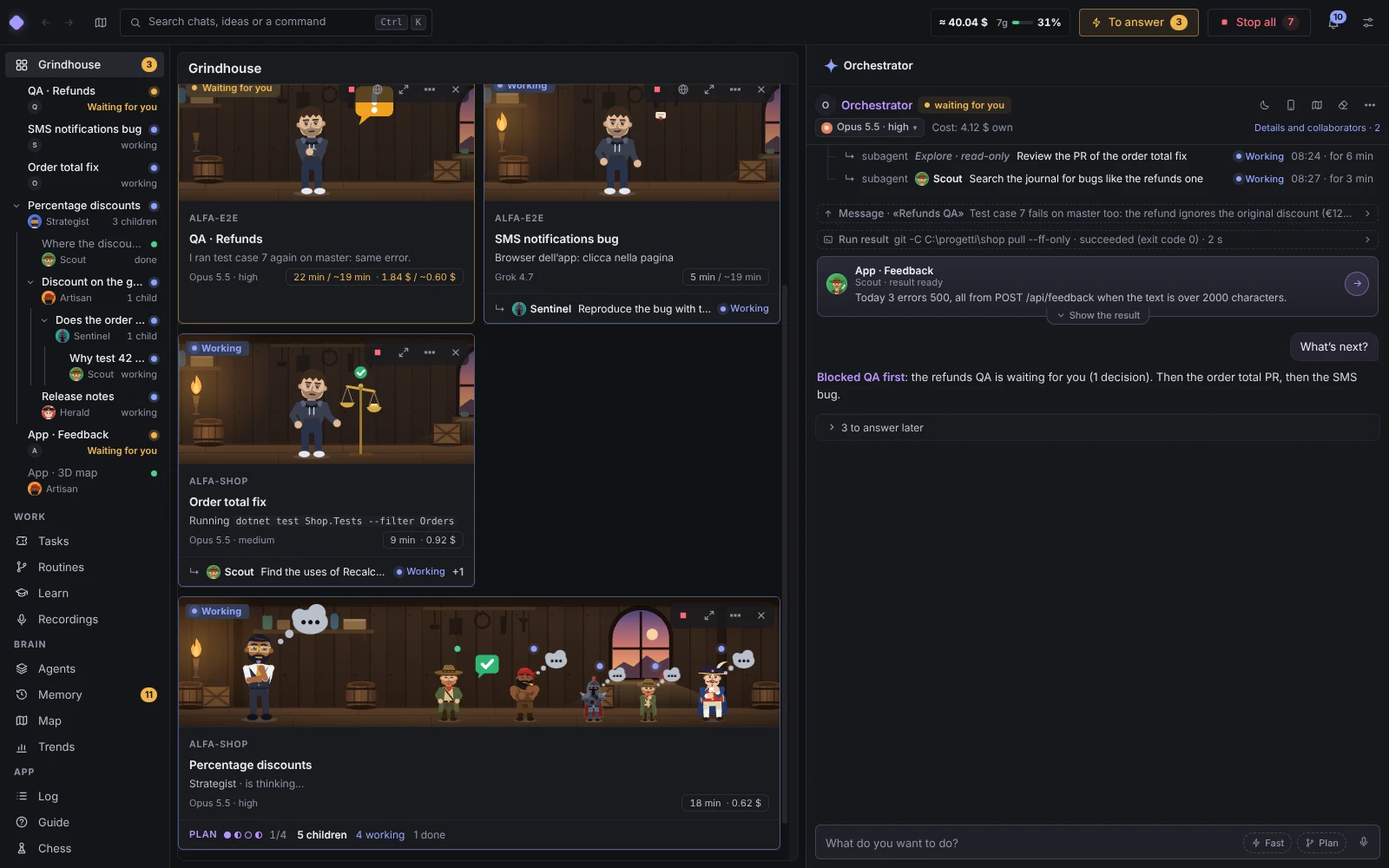
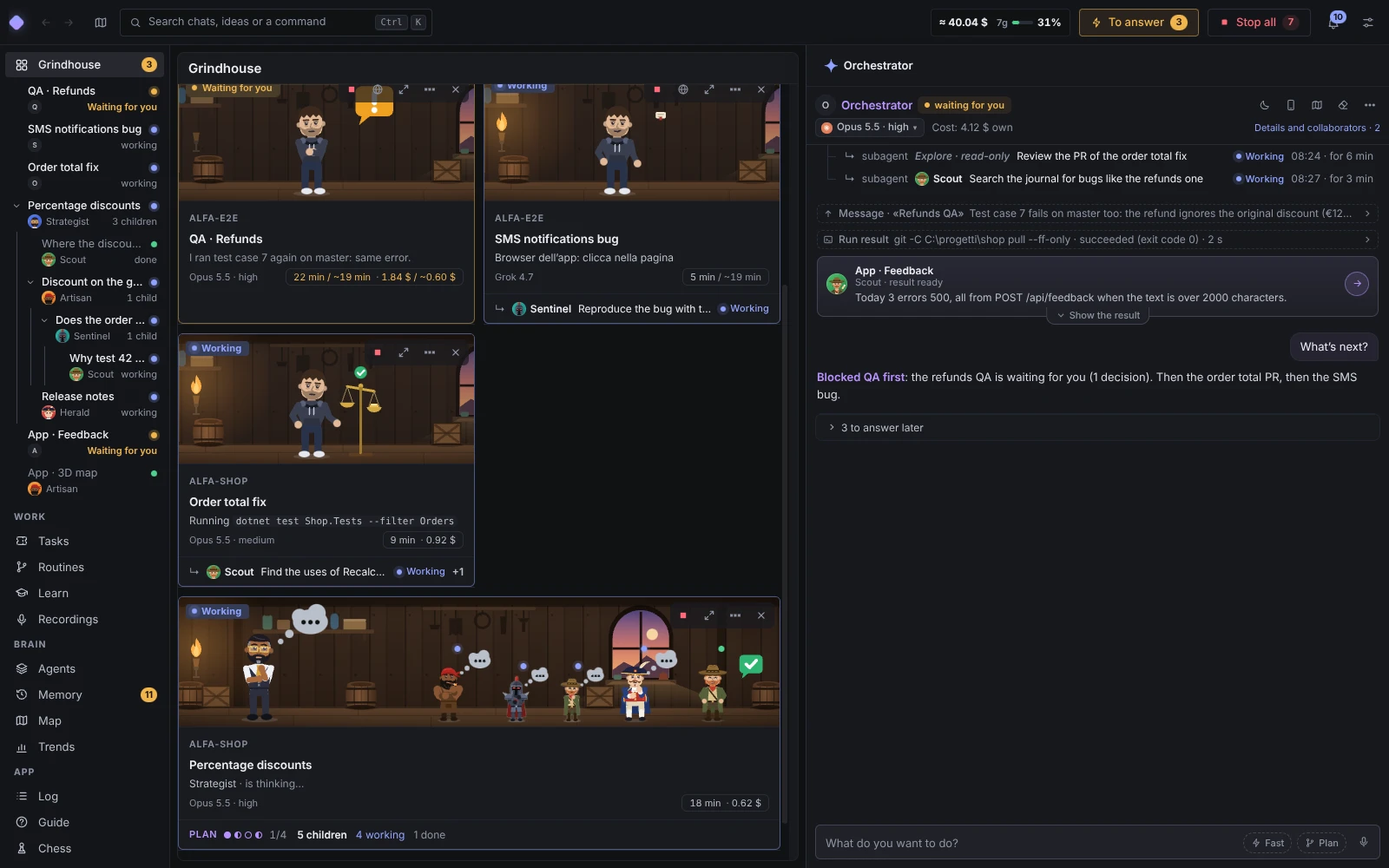
feat(grindhouse): every helper at the bench, the ones at work first
- the helpers' row holds the whole team and scrolls sideways (wheel,
  trackpad, a thin bar under the pointer); the +N button is gone
- at work or waiting first, then stuck, then the rest
- one floating name tag kept inside the row; helpers take focus, Enter opens
- the limit chip reads «Max 5 insieme» while something works and explains
  itself under the pointer

ADR 0314.

shots: unchanged-visually agents agent-levels

Changed region(s): [[0.3125, 0.744, 0.5625, 0.837]]

diff --git a/src/renderer/components/BenchKids.tsx b/src/renderer/components/BenchKids.tsx
@@ -1,11 +1,13 @@
 // The sub-agents of a bench in the Grindhouse workshop (ADR 0311; the owner picked «aiutanti allo stesso banco»,
 // 2026-11-14; ADR 0312): every chat a chat delegated, and the ones those delegated in turn, stands at its bench as a
-// smaller person doing what it does (StripFace.tsx), a grandchild smaller still, up to SHOWN and «+N». Under the pointer
+// smaller person doing what it does (StripFace.tsx), a grandchild smaller still, all of them, the ones at work first, in a row that scrolls sideways (the owner,
+// 2026-11-15, ADR 0314). Under the pointer
 // or the keyboard a helper shows its name tag over its head: who, and its state in words; a click on the tag (or around
 // the person) opens that chat in the Grindhouse with the whole team as tabs (AgentStrips.tsx TeamTabs), as a click in
 // the sidebar does; a click on the person itself stays a pat or a whack (ADR 0297). The bench's foot counts them
 // (running, waiting, stuck, done) with the limit the bench hit, when it did (BenchKidsSum). Used by ChatTile.tsx on a
 // closed bench.
+import { useCallback, useEffect, useLayoutEffect, useMemo, useRef, useState } from 'react';
 import type { ChatSummary } from '@shared/contract';
 import { childState, kidCounts, type ChildState } from '../lib/chat-tree';
 import { openKidsOf } from '../lib/chat-derived';
@@ -17,10 +19,10 @@ import { t } from '../i18n';
 import { StripFace } from './StripFace';
 import { LINE } from './DelegationCard';
 
-/** How many helpers stand at a bench; the rest are «+N». */
-export const SHOWN = 5;
+/** How many helpers a bench draws at most (all of a real team; a cap so a runaway tree cannot flood the page). */
+export const MAX_HELPERS = 40;
 const sameKids = (a: readonly ChatSummary[], b: readonly ChatSummary[]) => a === b || (a.length === b.length && a.every((k, i) => k === b[i]));
-/** Every open chat under `chatId`, depth first (a grandchild right after its parent), with its depth (1 = a child). */
+/** Every open chat under `chatId`, depth first (a grandchild right after its parent). */
 export function useTeam(chatId: string): readonly ChatSummary[] {
   return useApp(s => {
     const out: ChatSummary[] = [];
@@ -32,17 +34,49 @@ export function useTeam(chatId: string): readonly ChatSummary[] {
 /** The dot's tone of a sub-agent's state (the same tints as its thread line). */
 export const kidTone = (state: ChildState): string => LINE[state];
 const working = (s: ChildState) => s === 'run' || s === 'start';
+/** Who stands first at the bench (the owner, 2026-11-15: «vorrei vedere quelli in attività per primi»): at work or
+ *  waiting for someone, then stuck, then the rest. A short stop keeps its place (run and wait are one group). */
+const rank = (s: ChildState) => s === 'run' || s === 'start' || s === 'wait' || s === 'queued' ? 0 : s === 'err' || s === 'blocked' || s === 'stall' ? 1 : 2;
 const open = (id: string) => setChatExpanded(id, true);
 
-/** The helpers at the bench, beside the bench's own person. */
+/** The helpers at the bench, beside the bench's own person: all of them, the ones at work first, in a row that scrolls
+ *  sideways (wheel, trackpad or its thin bar) when they do not fit. One name tag floats over the row for the helper
+ *  under the pointer or the keyboard, kept inside the row, so no tag is ever cut at an edge. */
 export function BenchHelpers({ chatId }: { chatId: string }) {
   const team = useTeam(chatId);
-  if (!team.length) return null;
-  const shown = team.slice(0, SHOWN), rest = team.slice(SHOWN);
-  return <span className="bench-helpers" data-testid={`bench-helpers-${chatId}`}>
-    {shown.map(k => <Helper key={k.id} kid={k} depth={depthOf(k, chatId, team)} />)}
-    {rest.length > 0 && <button type="button" className="bench-more" data-testid={`bench-more-${chatId}`} onClick={e => { e.stopPropagation(); open(rest[0]!.id); }}
-      aria-label={t('tree.moreHelpers', { n: rest.length })} data-tip={rest.map(k => k.agent?.name || k.title).join(', ')}>+{rest.length}</button>}
+  const order = useMemo(() => team.map((k, i) => ({ k, i, r: rank(childState(k)) })).sort((x, y) => x.r - y.r || x.i - y.i).slice(0, MAX_HELPERS).map(x => x.k), [team]);
+  const wrap = useRef<HTMLSpanElement>(null), row = useRef<HTMLSpanElement>(null);
+  const [tip, setTip] = useState<{ id: string; x: number; y: number } | null>(null);
+  const [edge, setEdge] = useState({ left: false, right: false });
+  const hideT = useRef(0);
+  const measure = useCallback(() => { const r = row.current; if (r) setEdge(e => { const left = r.scrollLeft > 2, right = r.scrollLeft + r.clientWidth < r.scrollWidth - 2; return e.left === left && e.right === right ? e : { left, right }; }); }, []);
+  useLayoutEffect(measure, [measure, order.length]);
+  // the wheel scrolls the row sideways while it can (a native listener: React's wheel is passive)
+  useEffect(() => {
+    const r = row.current; if (!r) return;
+    const wheel = (e: WheelEvent) => {
+      if (Math.abs(e.deltaY) <= Math.abs(e.deltaX) || r.scrollWidth <= r.clientWidth) return;
+      const max = r.scrollWidth - r.clientWidth, to = Math.max(0, Math.min(max, r.scrollLeft + e.deltaY));
+      if (to === r.scrollLeft) return;
+      e.preventDefault(); r.scrollLeft = to;
+    };
+    r.addEventListener('wheel', wheel, { passive: false });
+    return () => r.removeEventListener('wheel', wheel);
+  }, []);
+  useEffect(() => () => window.clearTimeout(hideT.current), []);
+  const show = (id: string, el: HTMLElement) => {
+    window.clearTimeout(hideT.current);
+    const w = wrap.current?.getBoundingClientRect(), b = el.getBoundingClientRect();
+    if (w) setTip({ id, x: b.left + b.width / 2 - w.left, y: Math.max(38, b.top - w.top - 28) });
+  };
+  const hide = () => { window.clearTimeout(hideT.current); hideT.current = window.setTimeout(() => setTip(null), 160); };
+  if (!order.length) return null;
+  const tipKid = tip ? order.find(k => k.id === tip.id) : undefined;
+  return <span ref={wrap} className={`bench-helpers-wrap${edge.left ? ' more-left' : ''}${edge.right ? ' more-right' : ''}`} data-testid={`bench-helpers-${chatId}`}>
+    <span ref={row} className="bench-helpers" onScroll={() => { measure(); setTip(null); }}>
+      {order.map(k => <Helper key={k.id} kid={k} depth={depthOf(k, chatId, team)} onShow={show} onHide={hide} />)}
+    </span>
+    {tip && tipKid && <HelperTag kid={tipKid} x={tip.x} y={tip.y} wrap={wrap} onEnter={() => window.clearTimeout(hideT.current)} onLeave={hide} />}
   </span>;
 }
 
@@ -52,21 +86,40 @@ function depthOf(k: ChatSummary, root: string, team: readonly ChatSummary[]): nu
   return depth;
 }
 
-/** One helper: its person (a pat at a click), its dot, and its name tag that opens its chat. */
-function Helper({ kid, depth }: { kid: ChatSummary; depth: number }) {
-  const state = useSteady(childState(kid), working, s => s === 'err' || s === 'blocked');
+/** The held state of a helper, so a short stop does not blink (ADR 0312). */
+function useKidState(kid: ChatSummary): ChildState { return useSteady(childState(kid), working, s => s === 'err' || s === 'blocked'); }
+
+/** One helper: its person (a pat or a whack at a click, ADR 0297) and its dot; Enter opens its chat; under the pointer
+ *  or the keyboard the row shows its tag. */
+function Helper({ kid, depth, onShow, onHide }: { kid: ChatSummary; depth: number; onShow: (id: string, el: HTMLElement) => void; onHide: () => void }) {
+  const state = useKidState(kid);
   const busy = useSteady(isBusy(kid), b => b); // held like the state, or a short stop would remount the person
   const name = kid.agent?.name || kid.title, tone = kidTone(state), live = working(state) || state === 'wait';
   return <span className={`bench-helper${depth > 1 ? ' is-grand' : ''}${live ? ' is-live' : ''}`} data-testid={`bench-helper-${kid.id}`} data-child-state={state} data-depth={depth}
+    tabIndex={0} role="button" aria-label={t('tree.openHelper', { name, state: t(`tree.state.${state}`) })}
+    onMouseEnter={e => onShow(kid.id, e.currentTarget)} onMouseLeave={onHide} onFocus={e => onShow(kid.id, e.currentTarget)} onBlur={onHide}
+    onKeyDown={e => { if (e.key === 'Enter' || e.key === ' ') { e.preventDefault(); e.stopPropagation(); open(kid.id); } }}
     onClick={e => { e.stopPropagation(); open(kid.id); }}>
-    <button type="button" className={`bench-tag tone-${tone}`} data-testid={`bench-helper-open-${kid.id}`} onClick={e => { e.stopPropagation(); open(kid.id); }}
-      aria-label={t('tree.openHelper', { name, state: t(`tree.state.${state}`) })}>
-      <span className={`bench-dot tone-${tone}`} aria-hidden="true" /><b>{name}</b><span>{t(`tree.state.${state}`)}</span><i aria-hidden="true">›</i>
-    </button>
     <span className={`bench-dot bench-head-dot tone-${tone}`} aria-hidden="true" />
     <StripFace chatId={kid.id} avatar={kid.agent?.avatar} name={name} tone={tone} size={36} height={depth > 1 ? 62 : 82}
       waitsUser={state === 'wait'} error={state === 'err' || state === 'blocked'} busy={busy && working(state)} done={state === 'done' || state === 'partial'} pending={working(state)} />
   </span>;
+}
+
+/** The name tag over the hovered helper: who, its state in words, «›»; a click opens its chat. Kept inside the row. */
+function HelperTag({ kid, x, y, wrap, onEnter, onLeave }: { kid: ChatSummary; x: number; y: number; wrap: React.RefObject<HTMLSpanElement | null>; onEnter: () => void; onLeave: () => void }) {
+  const state = useKidState(kid), name = kid.agent?.name || kid.title, tone = kidTone(state);
+  const el = useRef<HTMLButtonElement>(null);
+  const [left, setLeft] = useState(x);
+  useLayoutEffect(() => {
+    const w = wrap.current?.clientWidth ?? 0, tw = el.current?.offsetWidth ?? 0;
+    setLeft(Math.max(0, Math.min(Math.max(0, w - tw), x - tw / 2)));
+  }, [x, name, state, wrap]);
+  return <button ref={el} type="button" className={`bench-tag tone-${tone}`} style={{ left, top: y }} data-testid={`bench-helper-open-${kid.id}`}
+    onMouseEnter={onEnter} onMouseLeave={onLeave} onClick={e => { e.stopPropagation(); open(kid.id); }}
+    aria-label={t('tree.openHelper', { name, state: t(`tree.state.${state}`) })}>
+    <span className={`bench-dot tone-${tone}`} aria-hidden="true" /><b>{name}</b><span>{t(`tree.state.${state}`)}</span><i aria-hidden="true">›</i>
+  </button>;
 }
 
 /** The bench's foot line about its team: how many, how many at work, waiting, stuck, done, and the limit it hit. */
@@ -82,6 +135,8 @@ export function BenchKidsSum({ chatId }: { chatId: string }) {
     {wait > 0 && <span className="is-wait">{t('tree.kidsWait', { n: wait })}</span>}
     {stuck > 0 && <span className="is-err">{t('tree.kidsStuck', { n: stuck })}</span>}
     {done > 0 && <span>{t('tree.kidsDone', { n: done })}</span>}
-    {limit && <span className="pill pill-wait tree-limit" data-testid={`tree-limit-${chatId}`}>{t(`tree.limit.${limit.kind}`, { limit: limit.limit })}</span>}
+    {/* the limit it hit, said while it still matters (something at work), with what it means under the pointer */}
+    {limit && run > 0 && <span className="pill pill-wait tree-limit" data-testid={`tree-limit-${chatId}`} tabIndex={0}
+      data-tip={t(`tree.limit.${limit.kind}Tip`, { limit: limit.limit })} aria-label={t(`tree.limit.${limit.kind}Tip`, { limit: limit.limit })}>{t(`tree.limit.${limit.kind}`, { limit: limit.limit })}</span>}
   </span>;
 }

diff --git a/src/shared/concept-guide.de.ts b/src/shared/concept-guide.de.ts
@@ -52,10 +52,10 @@ export const GUIDE_DE: Readonly<Record<string, string>> = {
   "A delegation starts 1 to 10 child chats at once, each with a self-contained contract, always in the same format and in English: goal, why, what is already decided, context, what is in and out of scope, constraints, steps only when order matters, done-when criteria, expected output, when to ask the parent. Without the why a warning comes back. The child never reads the parent’s conversation.": "Eine Delegation startet 1 bis 10 Kind-Chats auf einmal, jeden mit einem eigenständigen Vertrag, immer im selben Format und auf Englisch: Ziel, warum, was schon entschieden ist, Kontext, was dazugehört und was nicht, Vorgaben, Schritte nur wenn die Reihenfolge zählt, Fertig-wenn-Kriterien, erwarteter Output, wann der Elternchat zu fragen ist. Ohne das Warum kommt eine Warnung zurück. Das Kind liest nie die Unterhaltung des Elternchats.",
   "Permissions only go down: a child never gets more tools or permissions than its parent and works in its folder (or a worktree of the same repository); a request beyond the parent’s permissions is refused and says so in the chat. By default every role may do everything, so a planner (Strategist) also launches the roles that change something (Artisan, Sentinel, Herald); if you narrowed the parent, a child that needs more does not start: the parent writes it in its result and the Orchestrator starts it.": "Berechtigungen gehen nur nach unten: ein Kind bekommt nie mehr Tools oder Berechtigungen als sein Elternchat und arbeitet in dessen Ordner (oder einem Worktree desselben Repositorys); eine Anfrage über die Berechtigungen des Elternchats hinaus wird abgelehnt und das steht im Chat. Standardmäßig darf jede Rolle alles, also startet auch ein Planer (Strategist) die Rollen, die etwas ändern (Artisan, Sentinel, Herald); hast du den Elternchat eingeschränkt, startet ein Kind, das mehr braucht, nicht: der Elternchat schreibt es in sein Ergebnis und der Orchestrator startet es.",
   "A child that writes works in a copy of the repository (worktree) on its own branch. The app reuses free, clean copies, their build outputs already there, and deletes the ones over the limits in Settings → Advanced (copies per repository, in total, disk cap): the first time with your \"Clean up now\", then by itself every 6 hours. A copy with changes or unpushed commits is never deleted: you see it listed there.": "Ein Kind, das schreibt, arbeitet in einer Kopie des Repositorys (Worktree) auf einem eigenen Branch. Die App verwendet freie, saubere Kopien wieder, ihre Build-Ausgaben schon vorhanden, und löscht die über den Grenzen unter Einstellungen → Erweitert (Kopien pro Repository, insgesamt, maximaler Speicherplatz): das erste Mal mit deinem „Jetzt bereinigen“, danach von selbst alle 6 Stunden. Eine Kopie mit Änderungen oder nicht veröffentlichten Commits wird nie gelöscht: du siehst sie dort aufgelistet.",
-  "Depth and running children are your limits (Settings → Roles and delegation); a delegation over the limit is refused and the parent shows \"Limit\". One review chat per piece of work: after a fix the same chat reviews only what changed; a new one is opened for other work, for a part none covers or when you ask for it.": "Tiefe und laufende Kinder sind deine Grenzen (Einstellungen → Rollen und Delegation); eine Delegation über der Grenze wird abgelehnt und der Elternchat zeigt „Grenze“. Ein Review-Chat pro Arbeit: nach einem Fix prüft derselbe Chat nur, was sich geändert hat; ein neuer wird für eine andere Arbeit geöffnet, für einen Teil, den keiner abdeckt, oder wenn du ihn verlangst.",
+  "Depth and running children are your limits (Settings → Roles and delegation); a delegation over the limit is refused and the parent says so at the foot of its bench (\"At most 5 at once\": the others start when one finishes). One review chat per piece of work: after a fix the same chat reviews only what changed; a new one is opened for other work, for a part none covers or when you ask for it.": "Tiefe und laufende Kinder sind deine Grenzen (Einstellungen → Rollen und Delegation); eine Delegation über der Grenze wird abgelehnt und der Elternchat sagt es unten an seiner Werkbank („Höchstens 5 zugleich“: die anderen starten, sobald einer fertig ist). Ein Review-Chat pro Arbeit: nach einem Fix prüft derselbe Chat nur, was sich geändert hat; ein neuer wird für eine andere Arbeit geöffnet, für einen Teil, den keiner abdeckt, oder wenn du ihn verlangst.",
   "A child asks its parent for missing facts. Your choices use the original Orchestrator panel, including interviews and plans; agent text never counts as consent.": "Das Kind fragt seinen Elternchat nach fehlenden Fakten. Deine Entscheidungen erfolgen im Originalpanel des Orchestrators, auch bei Interviews und Plänen; Agententext gilt nie als Zustimmung.",
-  "In the Grindhouse the children stand at their parent’s bench, smaller, and the children’s children smaller still (up to five, then «+N»). Under the pointer a little person shows its name tag, who it is and its state: a click on the tag opens its chat, as from the sidebar, while a click on the person stays a pat. At the foot of the bench one line says how many they are, how many work and how many wait for you, and the limit hit. With a chat open, the team is in tabs at the top: the parent and every chat under it, and «← Grindhouse» to go back to the workshop.":
-    "In der Grindhouse stehen die Kinder an der Werkbank ihres Elternchats, kleiner, und die Kinder der Kinder noch kleiner (bis zu fünf, dann «+N»). Unter dem Mauszeiger zeigt ein Männchen sein Namensschild, wer es ist und seinen Zustand: ein Klick auf das Schild öffnet seinen Chat, wie aus der Seitenleiste, während ein Klick auf das Männchen ein Klaps bleibt. Unten an der Werkbank sagt eine einzige Zeile, wie viele es sind, wie viele arbeiten und wie viele auf dich warten, und welches Limit erreicht ist. Ist ein Chat offen, steht das Team oben als Tabs: der Elternchat und jeder Chat darunter, und «← Grindhouse», um zur Werkstatt zurückzukehren.",
+  "In the Grindhouse the children stand at their parent’s bench, smaller, and the children’s children smaller still (all of them, the ones at work first; when they do not fit the row scrolls sideways with the wheel). Under the pointer a little person shows its name tag, who it is and its state: a click on the tag opens its chat, as from the sidebar, while a click on the person stays a pat. At the foot of the bench one line says how many they are, how many work and how many wait for you, and the limit hit. With a chat open, the team is in tabs at the top: the parent and every chat under it, and «← Grindhouse» to go back to the workshop.":
+    "In der Grindhouse stehen die Kinder an der Werkbank ihres Elternchats, kleiner, und die Kinder der Kinder noch kleiner (alle, zuerst die arbeitenden; passen sie nicht, scrollt die Reihe mit dem Mausrad seitwärts). Unter dem Mauszeiger zeigt ein Männchen sein Namensschild, wer es ist und seinen Zustand: ein Klick auf das Schild öffnet seinen Chat, wie aus der Seitenleiste, während ein Klick auf das Männchen ein Klaps bleibt. Unten an der Werkbank sagt eine einzige Zeile, wie viele es sind, wie viele arbeiten und wie viele auf dich warten, und welches Limit erreicht ist. Ist ein Chat offen, steht das Team oben als Tabs: der Elternchat und jeder Chat darunter, und «← Grindhouse», um zur Werkstatt zurückzukehren.",
   "Write to the Orchestrator: child histories remain inspectable without another conversation input. Historical instructions written in children remain preserved.": "Schreib an den Orchestrator: Verläufe der Kinder bleiben ohne weiteres Eingabefeld einsehbar. Frühere Anweisungen in den Kindern bleiben erhalten.",
   "The final report reaches the parent and appears automatically in the Orchestrator. If it is closed, the result stays saved and the parent can still reassign the child. Historic parent-only reports are not replayed after an upgrade. A correction updates the same result and authorizes no new actions. Work stopped on something only you can do (VPN, a login with MFA, Esegui, a permission) reaches you at once in the Orchestrator as a Yes/No question: «Sì» resumes the work, «No» leaves it stopped. Every result done, even partly, lands by itself in the brain journal as a «fatto» line with role, chat and summary.": "Der Abschlussbericht erreicht den Elternchat und erscheint automatisch im Orchestrator. Ist dieser geschlossen, bleibt das Ergebnis gespeichert und der Elternchat kann dem Kind trotzdem einen neuen Auftrag geben. Frühere Berichte nur für den Elternchat erscheinen nach einem Update nicht erneut. Eine Korrektur aktualisiert dasselbe Ergebnis und erlaubt keine neuen Aktionen. Eine Arbeit, die an etwas hängt, das nur du tun kannst (VPN, ein Login mit MFA, Esegui, eine Berechtigung), erreicht dich sofort im Orchestrator als Ja/Nein-Frage: «Sì» lässt die Arbeit weiterlaufen, «No» lässt sie angehalten. Jedes erledigte Ergebnis, auch teilweise, landet von selbst im Tagebuch des Brains als Zeile «fatto» mit Rolle, Chat und Zusammenfassung.",
   "Like a site foreman handing jobs to his crew: each has a job sheet, nobody holds keys the foreman lacks, and each worker asks for the decision they need.": "Wie ein Polier, der seiner Partie Aufträge gibt: jeder hat einen Arbeitszettel, niemand hat Schlüssel, die der Polier nicht hat, und jeder fragt direkt nach der Entscheidung, die er braucht.",

diff --git a/src/shared/concept-guide.ts b/src/shared/concept-guide.ts
@@ -130,8 +130,8 @@ export const CONCEPTS: readonly ConceptCard[] = [
       b('I permessi scendono soltanto: un figlio non ha mai più strumenti o permessi del genitore e lavora nella sua cartella (o in un worktree dello stesso repository); una richiesta oltre i permessi del genitore è rifiutata e lo dice nella chat. Di base ogni ruolo può tutto, quindi chi pianifica (Strategist) avvia anche chi cambia qualcosa (Artisan, Sentinel, Herald); se hai ristretto il genitore, un figlio che ha bisogno di più non parte: il genitore lo scrive nel suo risultato e lo avvia l’Orchestrator.',
         'Permissions only go down: a child never gets more tools or permissions than its parent and works in its folder (or a worktree of the same repository); a request beyond the parent’s permissions is refused and says so in the chat. By default every role may do everything, so a planner (Strategist) also launches the roles that change something (Artisan, Sentinel, Herald); if you narrowed the parent, a child that needs more does not start: the parent writes it in its result and the Orchestrator starts it.'),
       // src/shared/roles.ts DELEGATION_DEFAULTS; src/main/chats/manager-delegation.ts limitNotice; src/main/agents/one-review.ts (#387)
-      b('Profondità e figli in corso sono limiti tuoi (Impostazioni → Ruoli e deleghe); una delega oltre il limite è rifiutata e il genitore mostra «Limite». Una sola chat di review per lavoro: dopo un fix la stessa chat rivede solo quello che è cambiato; una nuova si apre per un altro lavoro, per una parte che nessuna copre o se la chiedi tu.',
-        'Depth and running children are your limits (Settings → Roles and delegation); a delegation over the limit is refused and the parent shows "Limit". One review chat per piece of work: after a fix the same chat reviews only what changed; a new one is opened for other work, for a part none covers or when you ask for it.'),
+      b('Profondità e figli in corso sono limiti tuoi (Impostazioni → Ruoli e deleghe); una delega oltre il limite è rifiutata e il genitore lo dice al piede del banco («Max 5 insieme»: gli altri partono quando uno finisce). Una sola chat di review per lavoro: dopo un fix la stessa chat rivede solo quello che è cambiato; una nuova si apre per un altro lavoro, per una parte che nessuna copre o se la chiedi tu.',
+        'Depth and running children are your limits (Settings → Roles and delegation); a delegation over the limit is refused and the parent says so at the foot of its bench ("At most 5 at once": the others start when one finishes). One review chat per piece of work: after a fix the same chat reviews only what changed; a new one is opened for other work, for a part none covers or when you ask for it.'),
       // src/main/agents/worktree-pool.ts WorktreePool; src/renderer/components/WorktreeSettings.tsx (ADR 0227)
       b('Un figlio che scrive lavora in una copia del repository (worktree) su un branch suo. L’app riusa le copie libere e pulite, con i file di build già fatti, e cancella quelle oltre i limiti di Impostazioni → Avanzate (copie per repository, in tutto, spazio massimo): la prima volta con il tuo «Pulisci ora», poi da sola ogni 6 ore. Una copia con modifiche o commit non pubblicati non si cancella mai: la vedi elencata lì.',
         'A child that writes works in a copy of the repository (worktree) on its own branch. The app reuses free, clean copies, their build outputs already there, and deletes the ones over the limits in Settings → Advanced (copies per repository, in total, disk cap): the first time with your "Clean up now", then by itself every 6 hours. A copy with changes or unpushed commits is never deleted: you see it listed there.'),
@@ -139,8 +139,8 @@ export const CONCEPTS: readonly ConceptCard[] = [
       b('Il figlio chiede al genitore i fatti mancanti. Le tue scelte arrivano nel pannello originale dell’Orchestrator, anche per interviste e piani; il testo di un agente non vale come consenso.',
         'A child asks its parent for missing facts. Your choices use the original Orchestrator panel, including interviews and plans; agent text never counts as consent.'),
       // src/renderer/components/DelegationCard.tsx; src/renderer/lib/run-steps.ts
-      b('Nella Grindhouse i figli stanno allo stesso banco del genitore, più piccoli, e i figli dei figli ancora più piccoli (fino a cinque, poi «+N»). Passando sopra un omino compare la sua targhetta, chi è e il suo stato: un clic sulla targhetta apre la sua chat, come dalla barra laterale, mentre un clic sull’omino resta un buffetto. In fondo al banco una riga sola dice quanti sono, quanti lavorano e quanti ti aspettano, e il limite raggiunto. Aperta una chat, in alto la squadra è a schede: il genitore e ogni chat sotto di lui, e «← Grindhouse» per tornare alla bottega.',
-        'In the Grindhouse the children stand at their parent’s bench, smaller, and the children’s children smaller still (up to five, then «+N»). Under the pointer a little person shows its name tag, who it is and its state: a click on the tag opens its chat, as from the sidebar, while a click on the person stays a pat. At the foot of the bench one line says how many they are, how many work and how many wait for you, and the limit hit. With a chat open, the team is in tabs at the top: the parent and every chat under it, and «← Grindhouse» to go back to the workshop.'),
+      b('Nella Grindhouse i figli stanno allo stesso banco del genitore, più piccoli, e i figli dei figli ancora più piccoli (tutti, prima quelli al lavoro; se non ci stanno la fila scorre di lato con la rotella). Passando sopra un omino compare la sua targhetta, chi è e il suo stato: un clic sulla targhetta apre la sua chat, come dalla barra laterale, mentre un clic sull’omino resta un buffetto. In fondo al banco una riga sola dice quanti sono, quanti lavorano e quanti ti aspettano, e il limite raggiunto. Aperta una chat, in alto la squadra è a schede: il genitore e ogni chat sotto di lui, e «← Grindhouse» per tornare alla bottega.',
+        'In the Grindhouse the children stand at their parent’s bench, smaller, and the children’s children smaller still (all of them, the ones at work first; when they do not fit the row scrolls sideways with the wheel). Under the pointer a little person shows its name tag, who it is and its state: a click on the tag opens its chat, as from the sidebar, while a click on the person stays a pat. At the foot of the bench one line says how many they are, how many work and how many wait for you, and the limit hit. With a chat open, the team is in tabs at the top: the parent and every chat under it, and «← Grindhouse» to go back to the workshop.'),
       // src/main/chats/manager-work.ts userWrote; src/main/chats/orchestrator-wake.ts user-message
       b('Scrivi all’Orchestrator: le cronologie dei figli restano consultabili, senza un altro campo di conversazione. Le istruzioni storiche scritte nei figli restano conservate.',
         'Write to the Orchestrator: child histories remain inspectable without another conversation input. Historical instructions written in children remain preserved.'),

diff --git a/src/renderer/styles/agent-strips.css b/src/renderer/styles/agent-strips.css
@@ -278,27 +278,36 @@ html[data-hidden] .bench-stage::after { animation-play-state:paused; }
 /* on a bench every control stays in sight: stop, ✕ and the rest (the owner, 2026-11-14), each a comfortable target */
 .chat-tile.is-strip .bench-stage > .chat-header-actions > .icon-btn { opacity:1; width:28px; height:28px; }
 /* ── the helpers: smaller people at the bench, a grandchild smaller still; a name tag over the head under the pointer ── */
-.bench-helpers { position:relative; z-index:2; display:flex; align-items:flex-end; margin-left:auto; padding-right:4px; }
-.bench-helper { position:relative; display:inline-flex; flex-direction:column; align-items:center; margin-bottom:5px; cursor:pointer; }
+.bench-helpers-wrap { position:relative; z-index:2; flex:1 1 0; min-width:0; align-self:stretch; display:flex; margin-left:10px; }
+/* the row scrolls sideways when the team does not fit; the first helper is pushed right while there is room (an auto
+   margin, never justify-content: the start stays reachable); a thin bar only under the pointer (the WebKit
+   bar: scrollbar-width would bring the platform's arrows back) */
+.bench-helpers { flex:1 1 0; min-width:0; display:flex; align-items:flex-end; overflow-x:auto; overflow-y:hidden; overscroll-behavior-x:contain; padding:0 4px 0 2px; scroll-behavior:smooth; }
+.bench-helpers::-webkit-scrollbar { height:0; background:transparent; }
+.bench-helpers::-webkit-scrollbar-button { display:none; }
+.bench-helpers-wrap:hover > .bench-helpers::-webkit-scrollbar { height:5px; }
+.bench-helpers::-webkit-scrollbar-thumb { border-radius:3px; background:color-mix(in srgb, var(--text-3) 55%, transparent); }
+.bench-helpers > :first-child { margin-left:auto; }
+/* more to see on a side: the row fades there */
+.bench-helpers-wrap.more-right > .bench-helpers { -webkit-mask-image:linear-gradient(90deg, #000 calc(100% - 36px), transparent); mask-image:linear-gradient(90deg, #000 calc(100% - 36px), transparent); }
+.bench-helpers-wrap.more-left > .bench-helpers { -webkit-mask-image:linear-gradient(90deg, transparent, #000 36px); mask-image:linear-gradient(90deg, transparent, #000 36px); }
+.bench-helpers-wrap.more-left.more-right > .bench-helpers { -webkit-mask-image:linear-gradient(90deg, transparent, #000 36px, #000 calc(100% - 36px), transparent); mask-image:linear-gradient(90deg, transparent, #000 36px, #000 calc(100% - 36px), transparent); }
+.bench-helper { position:relative; flex:none; display:inline-flex; flex-direction:column; align-items:center; margin-bottom:5px; cursor:pointer; outline:none; border-radius:var(--r-m); }
+.bench-helper:focus-visible { box-shadow:0 0 0 2px var(--focus); }
 .bench-helper + .bench-helper { margin-left:-14px; }
 .bench-helper:hover, .bench-helper:focus-within { z-index:4; }
 .bench-head-dot { position:absolute; pointer-events:none; left:50%; top:-6px; transform:translateX(-50%); z-index:2; transition:opacity var(--dur-fast) var(--ease); }
-.bench-tag { all:unset; box-sizing:border-box; position:absolute; left:50%; bottom:calc(100% - 6px); z-index:5; display:inline-flex; align-items:center; gap:6px; height:26px; padding:0 9px 0 8px; border-radius:var(--r-m);
+.bench-tag { all:unset; box-sizing:border-box; position:absolute; z-index:5; display:inline-flex; align-items:center; gap:6px; height:26px; padding:0 9px 0 8px; border-radius:var(--r-m);
   background:var(--surface); border:1px solid var(--border-3); box-shadow:0 6px 16px rgb(0 0 0 / .28); font:600 11.5px var(--font); color:var(--text); white-space:nowrap; cursor:pointer;
-  opacity:0; pointer-events:none; transform:translate(-50%, 4px); transition:opacity 110ms var(--ease), transform 110ms var(--ease); }
+  animation:bench-tag-in 110ms var(--ease); }
+@keyframes bench-tag-in { from { opacity:0; transform:translateY(4px); } }
 .bench-tag > b { min-width:0; max-width:150px; overflow:hidden; text-overflow:ellipsis; }
 .bench-tag > span { flex:none; color:var(--text-3); font-weight:500; }
 .bench-tag > i { font-style:normal; color:var(--accent); font-size:13px; margin-left:1px; }
 .bench-tag:hover { border-color:var(--accent); }
 .bench-tag:focus-visible { outline:2px solid var(--focus); outline-offset:1px; }
-.bench-helper:last-of-type > .bench-tag { left:auto; right:0; transform:translateY(4px); }
-.bench-helper:hover > .bench-tag, .bench-helper:focus-within > .bench-tag { opacity:1; pointer-events:auto; transform:translate(-50%, 0); }
-.bench-helper:last-of-type:is(:hover, :focus-within) > .bench-tag { transform:none; }
 .bench-helper:is(:hover, :focus-within) > .bench-head-dot { opacity:0; }
-@media (prefers-reduced-motion: reduce) { .bench-tag { transition:none; } }
-.bench-more { all:unset; align-self:center; z-index:2; min-width:30px; height:26px; padding:0 8px; box-sizing:border-box; display:inline-flex; align-items:center; justify-content:center; border-radius:var(--r-m); background:color-mix(in srgb, var(--surface) 80%, transparent); border:1px solid var(--border-2); font:600 12px var(--font); color:var(--text-2); cursor:pointer; }
-.bench-more:hover { border-color:var(--accent); color:var(--text); }
-.bench-more:focus-visible { outline:2px solid var(--focus); }
+@media (prefers-reduced-motion: reduce) { .bench-tag { animation:none; } }
 .bench-dot { flex:none; width:7px; height:7px; border-radius:50%; background:var(--text-4); }
 .bench-dot.tone-run { background:var(--accent); box-shadow:0 0 0 3px var(--accent-bg); }
 .bench-dot.tone-wait { background:var(--amber); }

diff --git a/test/e2e/delegation-tree.spec.ts b/test/e2e/delegation-tree.spec.ts
@@ -91,9 +91,13 @@ test('a Strategist launches a Scout and a Sentinel: indented children, results b
     expect(new Set(heights).size).toBe(1);
     // its name tag shows under the pointer, and opens it
     const tag = page.getByTestId(`bench-helper-open-${scout.id}`);
-    await expect(tag).toHaveCSS('opacity', '0');
+    await expect(tag).toHaveCount(0);
     await helper.hover();
-    await expect(tag).toHaveCSS('opacity', '1');
+    await expect(tag).toBeVisible();
+    // the tag stays inside the bench, never cut at an edge (ADR 0314)
+    const tBox = (await tag.boundingBox())!;
+    expect(tBox.x).toBeGreaterThanOrEqual(pBox.x);
+    expect(tBox.x + tBox.width).toBeLessThanOrEqual(pBox.x + pBox.width + 1);
     await expect(tag).toContainText('Scout');
     const row = tag;
     // the sidebar tree: the same shape, the children one level in
@@ -107,6 +111,7 @@ test('a Strategist launches a Scout and a Sentinel: indented children, results b
     await theme(page, 'dark');
 
     // a click on the tag opens the child's chat, writable, with the whole result and the team as tabs
+    await helper.hover();
     await helper.hover();
     await row.click();
     await expect(page.getByTestId(`chat-input-${scout.id}`)).toBeVisible();
@@ -190,7 +195,9 @@ test('a child\'s question waits as a row in the Orchestrator; a permission above
     // the child's card says it waits for the user and hosts no second answer surface (lib/child-requests.ts requestHost)
     const kid = page.getByTestId(`bench-helper-${asker.id}`); // it stands at the parent's bench (ADR 0311, 0312)
     await expect(kid).toHaveAttribute('data-child-state', 'wait', { timeout: 20000 });
+    await kid.hover(); // its name tag shows under the pointer, kept inside the row (ADR 0314)
     await expect(page.getByTestId(`bench-helper-open-${asker.id}`)).toContainText('Ti aspetta');
+    await page.mouse.move(2, 2);
     await expect(page.getByTestId(`delegation-ask-${asker.id}`)).toHaveCount(0);
     await expect(page.locator(`[data-request-key="${key}"]`)).toHaveCount(0);
     await page.mouse.move(2, 2);

diff --git a/src/renderer/i18n/areas/tree.de.ts b/src/renderer/i18n/areas/tree.de.ts
@@ -28,7 +28,6 @@ export const treeDe: typeof treeIt = {
   'tree.state.blocked': 'blockiert',
   'tree.state.closed': 'geschlossen',
   'tree.kids': (p: { n: number }) => p.n === 1 ? '1 Kind' : `${p.n} Kinder`,
-  'tree.moreHelpers': (p: { n: number }) => p.n === 1 ? 'Den anderen Helfer öffnen' : `${p.n} weitere Helfer: den ersten öffnen`,
   'tree.openHelper': (p: { name: string; state: string }) => `${p.name} öffnen (${p.state})`,
   'tree.kidsRun': (p: { n: number }) => `${p.n} arbeiten`,
   'tree.kidsWait': (p: { n: number }) => `${p.n} warten auf dich`,
@@ -53,8 +52,10 @@ export const treeDe: typeof treeIt = {
   'tree.queuedNote': 'Startet, sobald die Maschine Platz hat.',
   'tree.refusedBy': 'von der App abgelehnt',
   'tree.sentTo': (p: { parent: string }) => `Ergebnis an ${p.parent} gesendet`,
-  'tree.limit.depth': (p: { limit: number }) => `Limit: Tiefe ${p.limit}`,
-  'tree.limit.parallel': (p: { limit: number }) => `Limit: ${p.limit} Kinder aktiv`,
+  'tree.limit.depth': (p: { limit: number }) => `Maximale Tiefe ${p.limit}`,
+  'tree.limit.parallel': (p: { limit: number }) => `Höchstens ${p.limit} zugleich`,
+  'tree.limit.parallelTip': (p: { limit: number }) => `Er wollte mehr Sub-Agenten zugleich, als du erlaubst (${p.limit}): die App hat die übrigen abgelehnt und ihn auf ein Ergebnis warten lassen. Sie starten, sobald einer fertig ist. Die Zahl änderst du unter Einstellungen → Rollen und Delegation.`,
+  'tree.limit.depthTip': (p: { limit: number }) => `Ein Sub-Agent wollte tiefer als ${p.limit} Ebenen delegieren: die App hat abgelehnt, und er macht diesen Teil selbst. Die Zahl änderst du unter Einstellungen → Rollen und Delegation.`,
   'tree.sidebar': 'Agenten bei der Arbeit',
   'delegation.group': 'Rollen und Delegation',
   'delegation.desc': 'Wie weit Rollen delegieren dürfen und auf welchen Modellen ihre Stufen laufen.',

diff --git a/src/renderer/i18n/areas/tree.en.ts b/src/renderer/i18n/areas/tree.en.ts
@@ -28,7 +28,6 @@ export const treeEn: typeof treeIt = {
   'tree.state.blocked': 'blocked',
   'tree.state.closed': 'closed',
   'tree.kids': (p: { n: number }) => p.n === 1 ? '1 child' : `${p.n} children`,
-  'tree.moreHelpers': (p: { n: number }) => p.n === 1 ? 'Open the other helper' : `${p.n} more helpers: open the first`,
   'tree.openHelper': (p: { name: string; state: string }) => `Open ${p.name} (${p.state})`,
   'tree.kidsRun': (p: { n: number }) => `${p.n} working`,
   'tree.kidsWait': (p: { n: number }) => `${p.n} waiting for you`,
@@ -53,8 +52,10 @@ export const treeEn: typeof treeIt = {
   'tree.queuedNote': 'It starts as soon as the machine has room.',
   'tree.refusedBy': 'refused by the app',
   'tree.sentTo': (p: { parent: string }) => `result sent to ${p.parent}`,
-  'tree.limit.depth': (p: { limit: number }) => `Limit: depth ${p.limit}`,
-  'tree.limit.parallel': (p: { limit: number }) => `Limit: ${p.limit} children working`,
+  'tree.limit.depth': (p: { limit: number }) => `Max depth ${p.limit}`,
+  'tree.limit.parallel': (p: { limit: number }) => `At most ${p.limit} at once`,
+  'tree.limit.parallelTip': (p: { limit: number }) => `It asked for more sub-agents at once than you allow (${p.limit}): the app refused the extra ones and told it to wait for a result. They start again as soon as one finishes. Change the number in Settings → Roles and delegation.`,
+  'tree.limit.depthTip': (p: { limit: number }) => `A sub-agent tried to delegate deeper than ${p.limit} levels: the app refused and it does that part itself. Change the number in Settings → Roles and delegation.`,
   'tree.sidebar': 'Agents at work',
   'delegation.group': 'Roles and delegation',
   'delegation.desc': 'How far roles may delegate and which models their tiers run on.',

diff --git a/src/renderer/i18n/areas/tree.it.ts b/src/renderer/i18n/areas/tree.it.ts
@@ -28,7 +28,6 @@ export const treeIt = {
   'tree.state.blocked': 'bloccato',
   'tree.state.closed': 'chiusa',
   'tree.kids': (p: { n: number }) => p.n === 1 ? '1 figlio' : `${p.n} figli`,
-  'tree.moreHelpers': (p: { n: number }) => p.n === 1 ? 'Apri l\'altro aiutante' : `Altri ${p.n} aiutanti: apri il primo`,
   'tree.openHelper': (p: { name: string; state: string }) => `Apri ${p.name} (${p.state})`,
   'tree.kidsRun': (p: { n: number }) => `${p.n} in corso`,
   'tree.kidsWait': (p: { n: number }) => `${p.n} ti aspetta`,
@@ -53,8 +52,10 @@ export const treeIt = {
   'tree.queuedNote': 'Parte appena la macchina ha posto.',
   'tree.refusedBy': "rifiutato dall'app",
   'tree.sentTo': (p: { parent: string }) => `esito inviato a ${p.parent}`,
-  'tree.limit.depth': (p: { limit: number }) => `Limite: profondità ${p.limit}`,
-  'tree.limit.parallel': (p: { limit: number }) => `Limite: ${p.limit} figli in corso`,
+  'tree.limit.depth': (p: { limit: number }) => `Profondità massima ${p.limit}`,
+  'tree.limit.parallel': (p: { limit: number }) => `Max ${p.limit} insieme`,
+  'tree.limit.parallelTip': (p: { limit: number }) => `Ha chiesto più sotto-agenti insieme di quanti ne permetti (${p.limit}): l'app ha rifiutato quelli in più e gli ha detto di aspettare un risultato. Ripartono appena uno finisce. Il numero si cambia in Impostazioni → Ruoli e deleghe.`,
+  'tree.limit.depthTip': (p: { limit: number }) => `Un sotto-agente ha provato a delegare oltre ${p.limit} livelli: l'app l'ha rifiutato e quella parte la fa lui. Il numero si cambia in Impostazioni → Ruoli e deleghe.`,
   'tree.sidebar': 'Agenti al lavoro',
   'delegation.group': 'Ruoli e deleghe',
   'delegation.desc': 'Quanto possono delegare i ruoli e su quali modelli girano i loro livelli.',

diff --git a/docs/adr/0314-every-helper-at-the-bench-workers-first.md b/docs/adr/0314-every-helper-at-the-bench-workers-first.md
@@ -1,0 +1,31 @@
+# ADR 0314 · Every helper at the bench, the ones at work first, and a limit that says what it means
+
+Date: 2026-11-15 · Status: accepted (owner, thread «Proporre nuova Grindhouse e Orchestrator», 2026-11-15: «Non capisco
+questa cosa del limite di 5 figli. e perchè se io volessi scorrere tutti i figli dovrei poterlo fare e vorrei vedere
+quelli in attività per primi») · Amends: ADR 0312 (point 2: up to five helpers and «+N»; the limit chip)
+
+## Context
+
+A double bench showed five helpers and «+N», which opened only the first one hidden: with 11 children most of the team
+could not be seen from the bench. The order was the tree's (depth first), so a finished child could stand before one at
+work. The foot's chip «Limite: 5 figli in corso» stayed for good once a delegation had been refused, and said nothing of
+what had happened.
+
+## Decision
+
+1. **All of them** (`BenchKids.tsx`, cap 40): every open chat under the bench stands at it, in one row that scrolls
+   sideways when it does not fit (the wheel, the trackpad, or a thin bar shown under the pointer); a side with more to
+   see fades out. «+N» is gone.
+2. **At work first**: at work, starting, queued or waiting for someone, then stuck, then the rest; the tree's order
+   inside each group. A short stop (run → wait → run) keeps its place.
+3. **One name tag for the row**: the tag of the helper under the pointer or the keyboard floats over the row and is kept
+   inside it, so it is never cut at an edge. A helper takes the focus and opens its chat with Enter; a click on the
+   person stays a pat or a whack (ADR 0297).
+4. **The limit says what it means**: «Max 5 insieme» (it asked for more sub-agents at once than allowed), shown only
+   while something under the bench is at work; under the pointer: the app refused the extra ones and told it to wait
+   for a result, they start again when one finishes, and the number is in Settings → Roles and delegation.
+
+## Consequences
+
+- The tag is not in the DOM until a helper is hovered or focused (e2e hover first).
+- Untried on the owner's real PC.

diff --git a/docs/adr/README.md b/docs/adr/README.md
@@ -308,6 +308,7 @@ Read these for how the app works today. "Partly superseded" records name the lat
 - [0311](0311-the-grindhouse-becomes-a-workshop.md) The Grindhouse becomes a workshop: square benches, scenes without screens, a vice at rest — accepted
 - [0312](0312-benches-of-one-height-helpers-with-name-tags.md) Benches of one height, helpers with name tags, a torch for who works, people who speak only where asked — accepted
 - [0313](0313-the-workshop-picture-and-people-in-full.md) The workshop picture behind the people, and every person in full — accepted
+- [0314](0314-every-helper-at-the-bench-workers-first.md) Every helper at the bench, the ones at work first, and a limit that says what it means — accepted
 - [0314](0314-ci-green-on-three-systems.md) CI that tells the truth on Windows, Linux and macOS — accepted
 
 ## Replaced

diff --git a/CHANGELOG.md b/CHANGELOG.md
@@ -6,6 +6,9 @@ and the project uses [Semantic Versioning](https://semver.org) once it reaches 1
 ## [Unreleased]
 
 ### Added
+- A bench shows every helper, the ones at work first, in a row that scrolls sideways; the name tag never gets cut
+  at an edge. The limit on the foot reads «Max 5 insieme» while it matters and says under the pointer what it means
+  (ADR 0314).
 - Every pull request and every push to `main` is checked on Windows, Linux and macOS: typecheck, lint, every unit
   test, the publish guard, the built app started once in its frozen demo (`scripts/boot-smoke.mjs`) and the stable
   copy started with a new profile (`npm run test:stable`). The e2e suite is started by hand. `npm run check --

diff --git a/docs/adr/0312-benches-of-one-height-helpers-with-name-tags.md b/docs/adr/0312-benches-of-one-height-helpers-with-name-tags.md
@@ -8,7 +8,7 @@ possibilità di cliccare un agente e andare direttamente nella sua tab, però no
 agenti fallo più carino … poco medievale»; «nelle card agenti si ripetono troppe info … le animazioni ci mettono troppo
 a ripartire»; «anche la navigazione tra le sezioni dell'app deve essere veramente super fluida») · Amends: ADR 0311
 (benches, helpers), ADR 0303 and 0305 (where the people speak), ADR 0295 (the spark of the working line) · Amended
-by: ADR 0313 (the workshop picture, no fading)
+by: ADR 0313 (the workshop picture, no fading), ADR 0314 (every helper, workers first, the limit explained)
 
 ## Context
 
